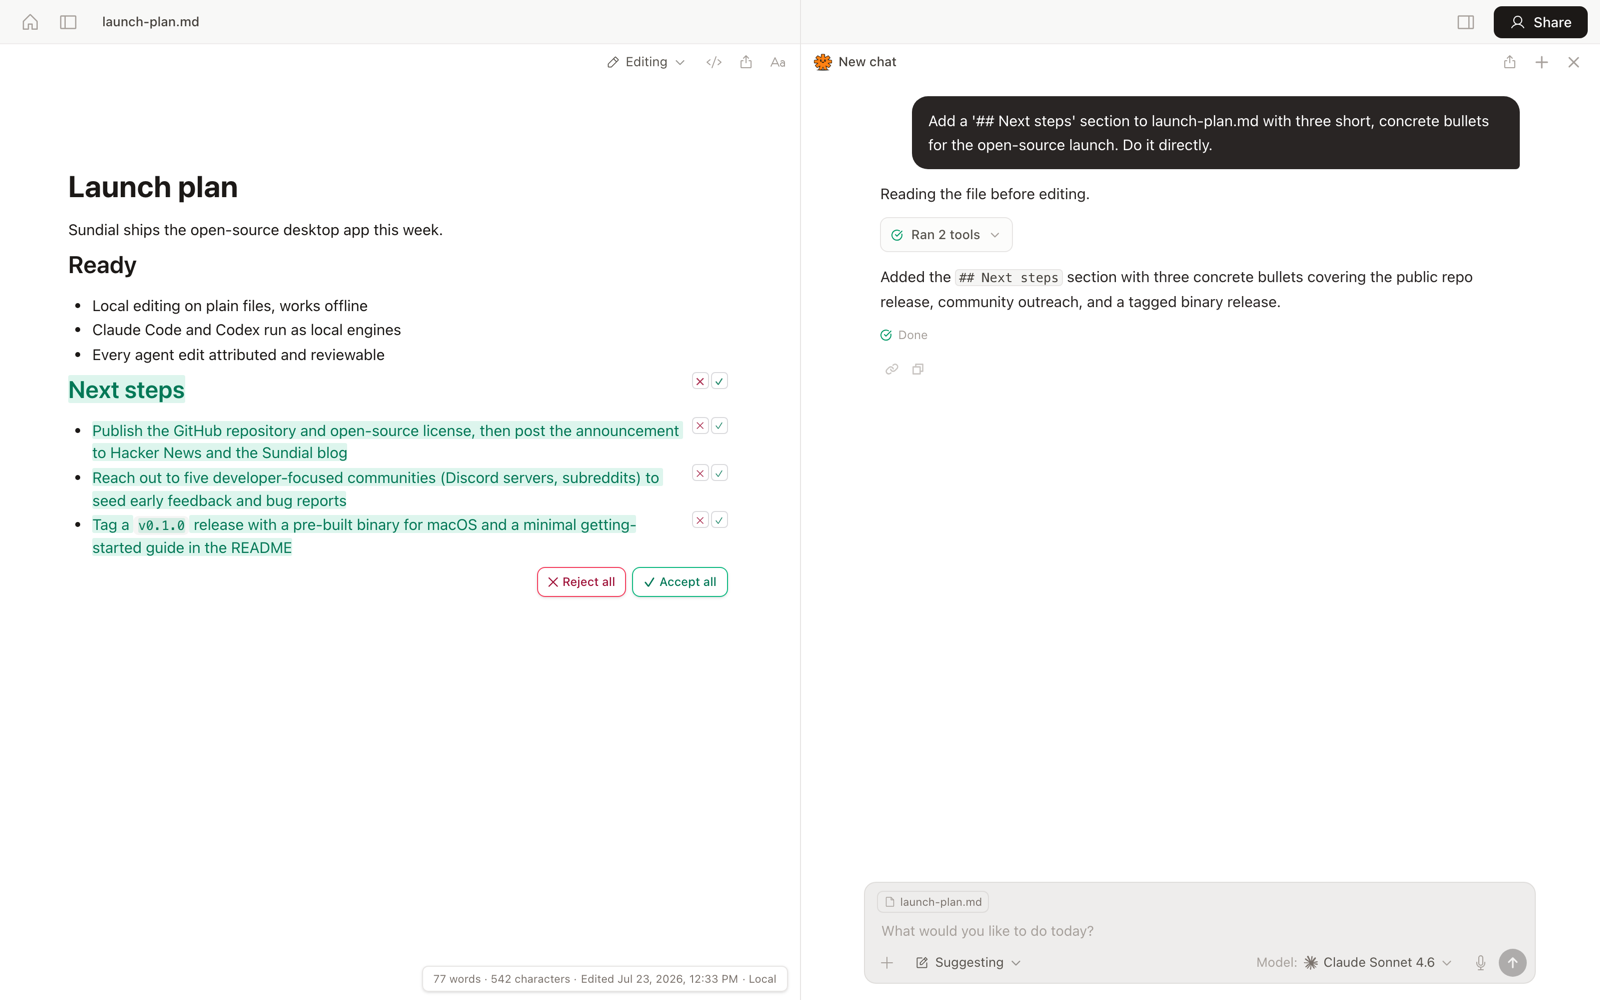
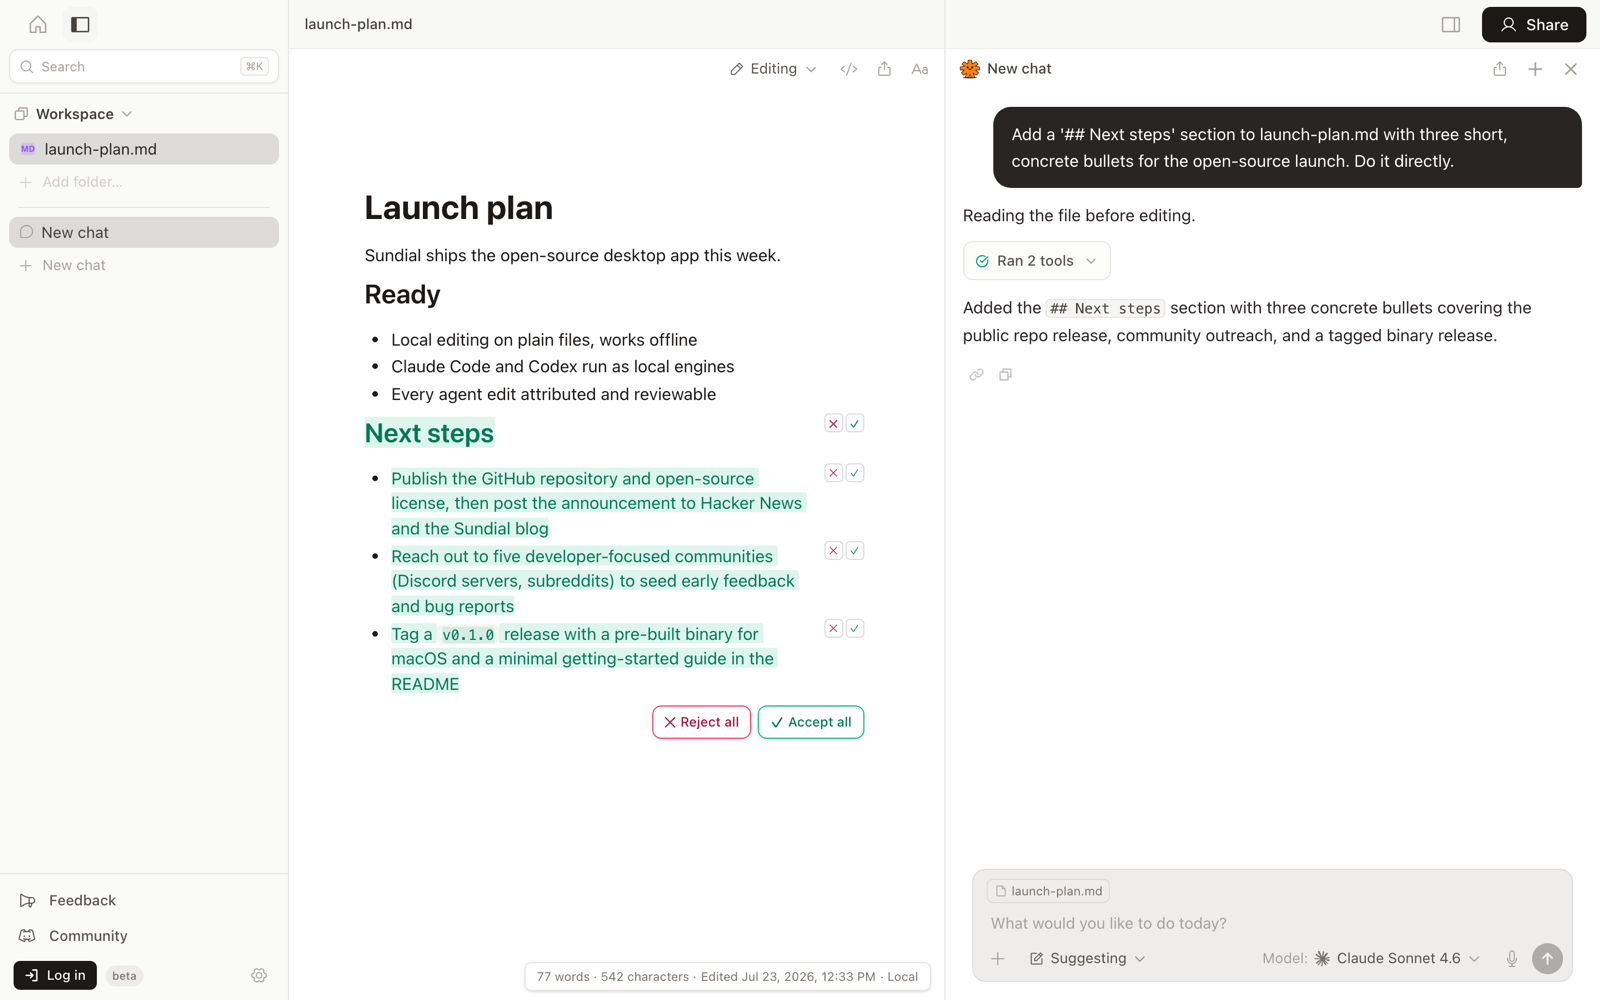
Export from sundial@35513c493

diff --git a/README.md b/README.md
@@ -2,11 +2,6 @@
 
 [Website](https://www.sundial.md) | [Blog](https://www.sundial.md/blog) | [Docs](https://www.sundial.md/docs) | [X](https://x.com/sundialhub)
 
-- **Use the desktop app** → [Download](https://www.sundial.md/download) — free forever, latest macOS
-- **Build it from source** → [Build](#build)
-- **Want to contribute?** → [Issues](https://github.com/sundial-org/sundial-desktop/issues)
-- **Have a bug or feature request?** → [Add it here](https://github.com/sundial-org/sundial-desktop/issues/new)
-
 Sundial is a markdown editor built for your writing experience first, while staying agent-native. It balances privacy-preserving local editing with collaborative sharing of a single file or a full project. It is flexible to use with any agent — and Sundial itself is customizable with any agent :)
 
 It is free forever — only pay per-use for Sundial's agent, or use your own.
@@ -21,6 +16,13 @@ It is free forever — only pay per-use for Sundial's agent, or use your own.
 - **Real documents** — Markdown first; LaTeX with live preview and citations; notebooks that run
 - **Local-first** — plain files on disk, works offline, no account needed
 - **One workspace everywhere** — sign in to share, edit multiplayer, and reach the same workspace from web, iMessage, or Slack, with Sunny (Sundial's hosted agent) as another collaborator
+
+## Get started
+
+- **Use the desktop app** → [Download](https://www.sundial.md/download) — free forever, latest macOS
+- **Build it from source** → [Build](#build)
+- **Want to contribute?** → [Issues](https://github.com/sundial-org/sundial-desktop/issues)
+- **Have a bug or feature request?** → [Add it here](https://github.com/sundial-org/sundial-desktop/issues/new)
 
 ## Philosophy
 
